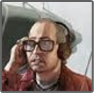
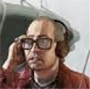
Pequenos ajustes.

diff --git a/style/main.css b/style/main.css
@@ -21,7 +21,7 @@
 
 /* General */
 body {
-    background-image: url("../media/BG.png");
+    background-image: url("../media/BG2.png");
     background-repeat: no-repeat;
     background-size: cover;
     background-attachment: fixed;
@@ -79,6 +79,7 @@ main {
     display: flex;
     flex-direction: column;
     gap: 10px;
+    width: 60%;
 }
 .noticiasSection header img {
     width: 100%;
@@ -131,7 +132,7 @@ main {
     height: fit-content;
 }
 
-.middleSeparator {
+.middleSeparator div {
     width: 2px;
     height: 90vh;
     margin: auto;
@@ -159,17 +160,18 @@ main {
 }
 
 .userPost {
+    width: 100%;
     margin-top: 40px;
 }
 
 .userInfo {
     display: flex;
-    gap: 10px;
+    gap: 0px;
     margin-top: 20px;
 }
 
 .userInfoText p {
-    margin: 0 0 5px 0;
+    margin: 0 0 5px -15px;
 }
 .userInfoText #userName {
     font-family: 'OldNewspaperTypesRegular';
@@ -181,7 +183,8 @@ main {
 }
 
 .userImage img {
-    width: 60px;
+    width: 65%;
+    border: 2px solid #0000009a;
 }
 
 .userPostBody {
@@ -191,47 +194,65 @@ main {
     margin-top: 5px;
 }
 .userPostBody p {
-    max-width: 80%;
+    max-width: 85%;
     margin: 0 0 0 12px;
 }
 .postReactions {
-    width: 46px;
+    width: 50%;
     height: fit-content;
-    margin: 0 5px;
+    margin: 0 16px 0 9px;
     padding-bottom: 12px;
     border: 1px solid #0000007a;
     background-color: #00000036;
     text-align: center;
 }
 .postReactions img {
+    display: block;
     cursor: pointer;
-    width: 30px;
-    margin: 0 8px;
+    width: 70%;
+    margin: auto;
     margin-top: 12px;
 }
-
-.userPostImage .userPostBody p {
-    max-width: 40%;
-}
-.userPostImage .userSentImage {
+.userPostContent .userSentImage {
     position: relative;
-    max-width: 250px;
+    width: 80%;
     height: fit-content;
+    text-align: center;
+    margin-top: 10px;
     margin-left: 20px;
     padding: 4px 3px 0 3px;
     border: 1px solid #390606;
 }
-.userPostImage .userSentImage:before {
-    content:"";
-    display:block;
-    position:absolute;
-    z-index:1;
-    top:2px;
-    left:2px;
-    right:2px;
-    bottom:2px;
-    border:2px solid rgba(255, 255, 255, 0);
+.userPostContent .userSentImage:before {
+    content: "";
+    display: block;
+    position: absolute;
+    z-index: 1;
+    top: 2px;
+    left: 2px;
+    right: 2px;
+    bottom: 2px;
+    border: 2px solid rgba(255, 255, 255, 0);
 }
-.userPostImage .userSentImage img {
+.userPostContent .userSentImage img {
     width: 100%;
+}
+
+/* Responsiveness */
+@media only screen and (max-width: 1200px) {
+    header {
+        width: 80%;
+    }
+
+    main {
+        width: 60%;
+    }
+
+    .postReactions {
+        width: 55%;
+        margin: 0 10px;
+    }
+    .postReactions img {
+        width: 25px;
+    }
 }

diff --git a/index.html b/index.html
@@ -46,7 +46,9 @@
             </div>
         </div>
 
-        <div class="middleSeparator"></div>
+        <div class="middleSeparator">
+            <div></div>
+        </div>
 
         <div class="comunidadeSection">
             <header>
@@ -83,10 +85,10 @@
                 </div>
             </div>
 
-            <div class="userPost userPostImage">
+            <div class="userPost">
                 <div class="userInfo">
                     <div class="userImage">
-                        <img src="media/User Image.png" alt="Entrar no perfil do usuário">
+                        <img src="media/User Image 2.png" alt="Entrar no perfil do usuário">
                     </div>
                     <div class="userInfoText">
                         <p id="userName">Marcos Carvalho L.</p>
@@ -99,9 +101,12 @@
                         <img src="media/Like.png" alt="Gostei do post">
                         <img src="media/Comment.png" alt="Comentários do post">
                     </div>
-                    <p>Lorem ipsum dolor sit amet, consectetur adipiscing elit. Sed egestas quam dui, a luctus velit condimentum sed. Maecenas eu dignissim tortor, tempus ullamcorper nisl. Pellentesque habitant morbi tristique senectus et netus et malesuada fames ac turpis egestasa Phasellus quam arcu, bibendum non ipsum!</p>
-                    <div class="userSentImage">
-                        <img src="media/User Sent Image.png" alt="Imagem enviada por usuário.">
+                    <div class="userPostContent">
+                        <p>Lorem ipsum dolor sit amet, consectetur adipiscing elit. Sed egestas quam dui, a luctus velit condimentum sed. Maecenas eu dignissim tortor, tempus ullamcorper nisl. Pellentesque habitant morbi tristique senectus et netus et malesuada fames ac turpis egestasa Phasellus quam arcu, bibendum non ipsum!</p>
+                        <div class="userSentImage">
+                            <img src="media/User Sent Image.png" alt="Imagem enviada por usuário.">
+                            <p>O descaso com a população.</p>
+                        </div>
                     </div>
                 </div>
             </div>
